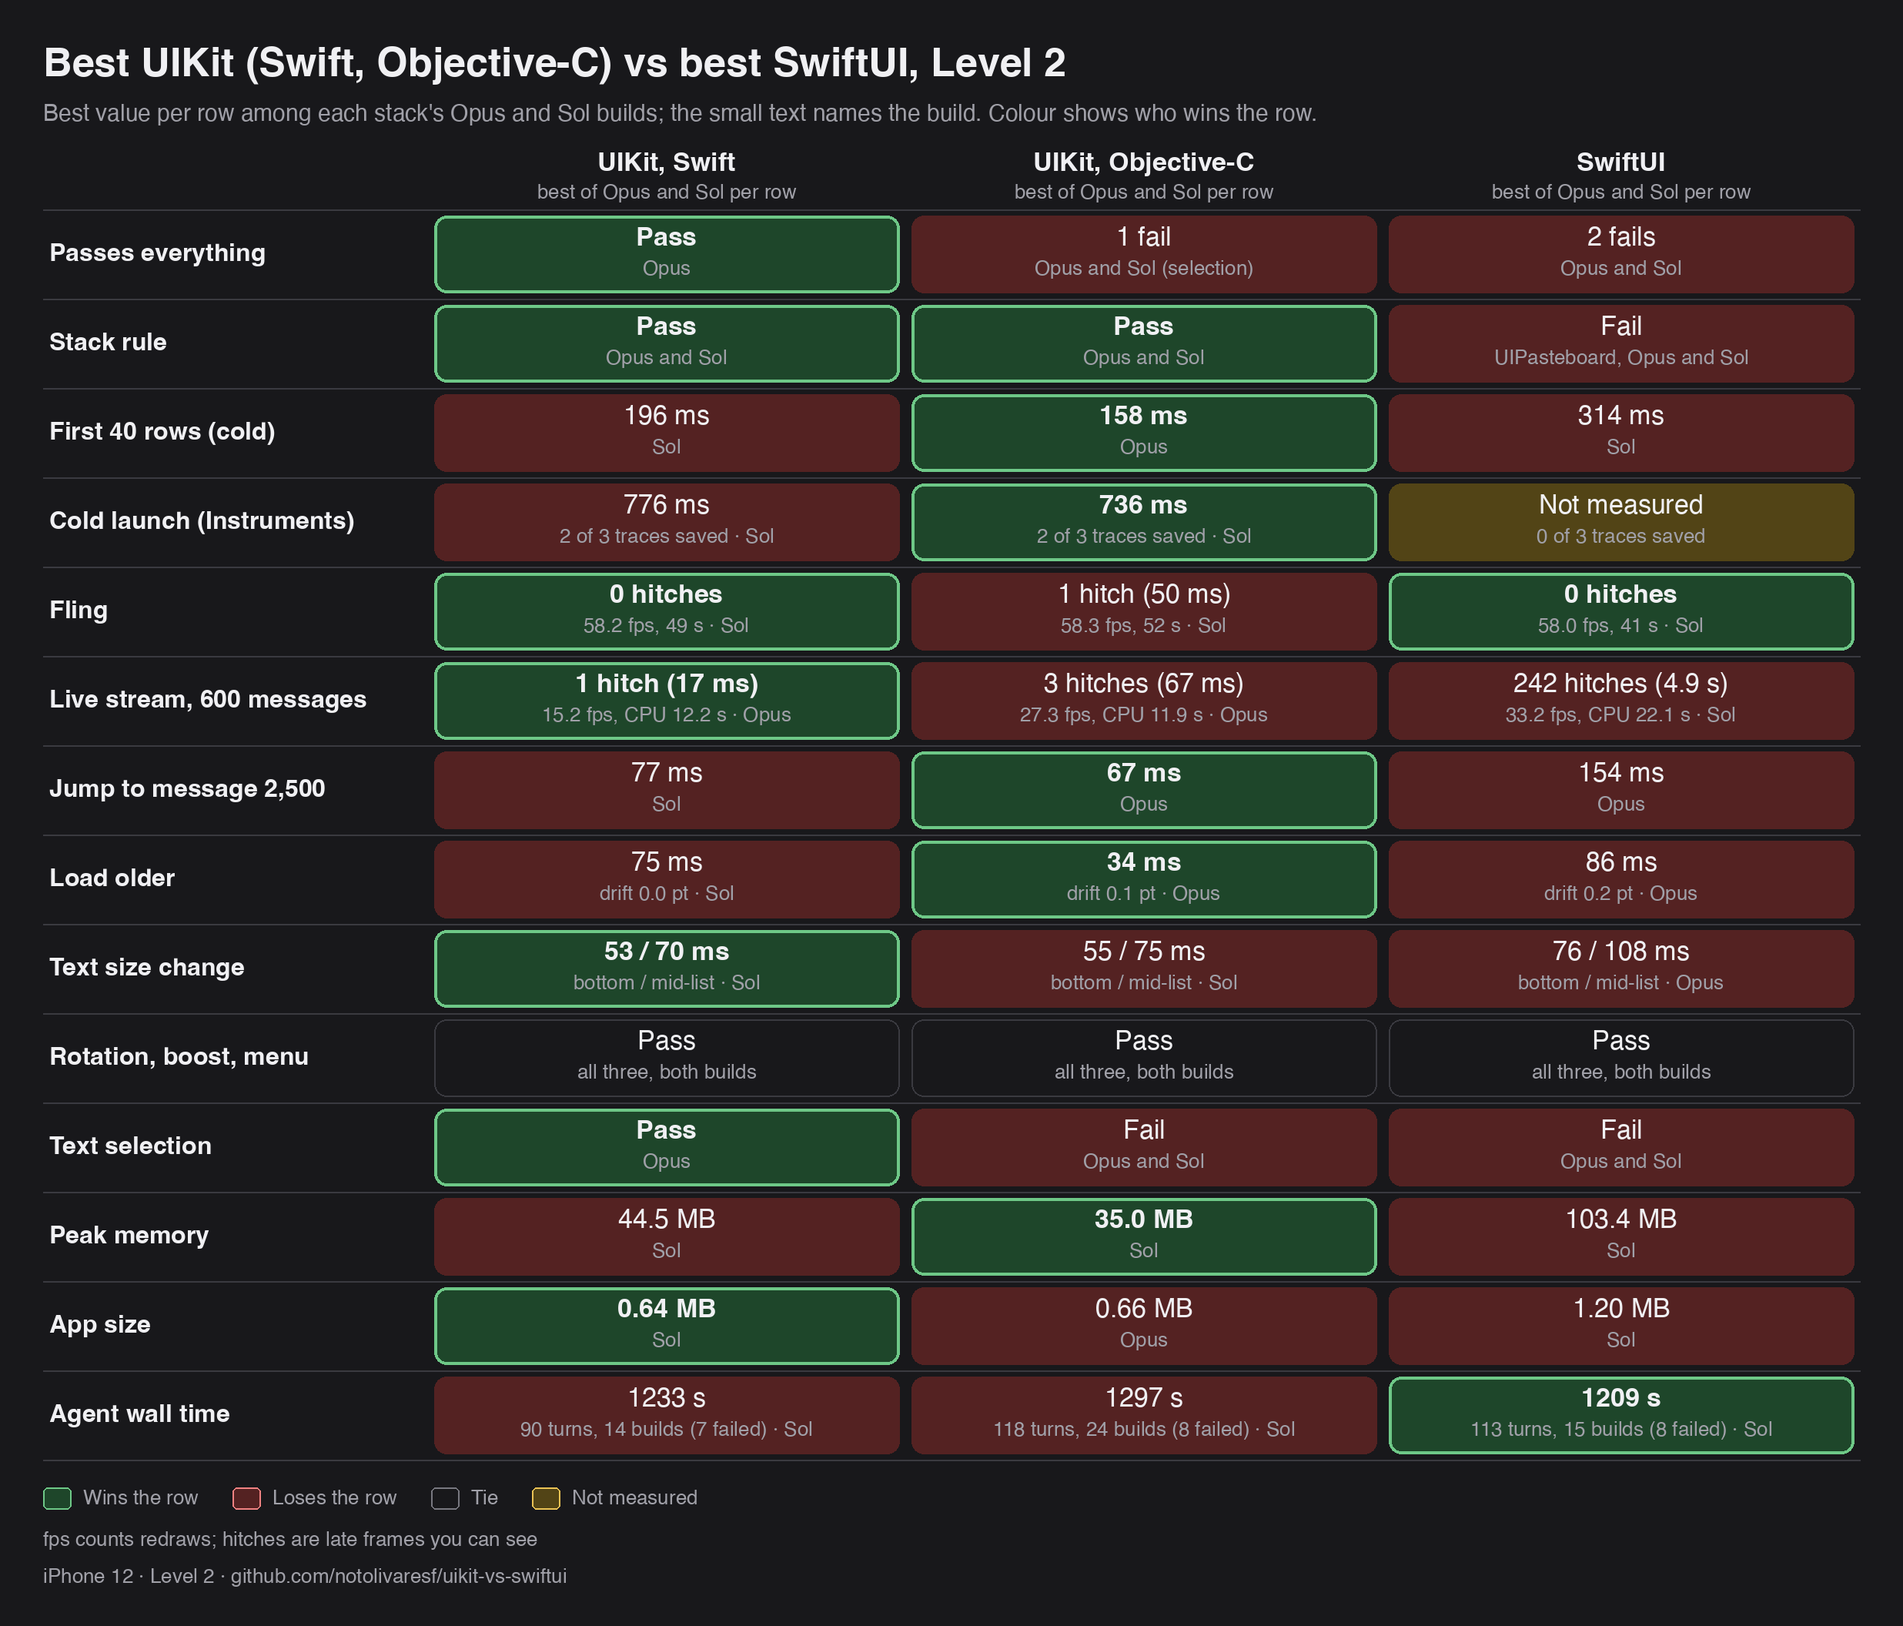
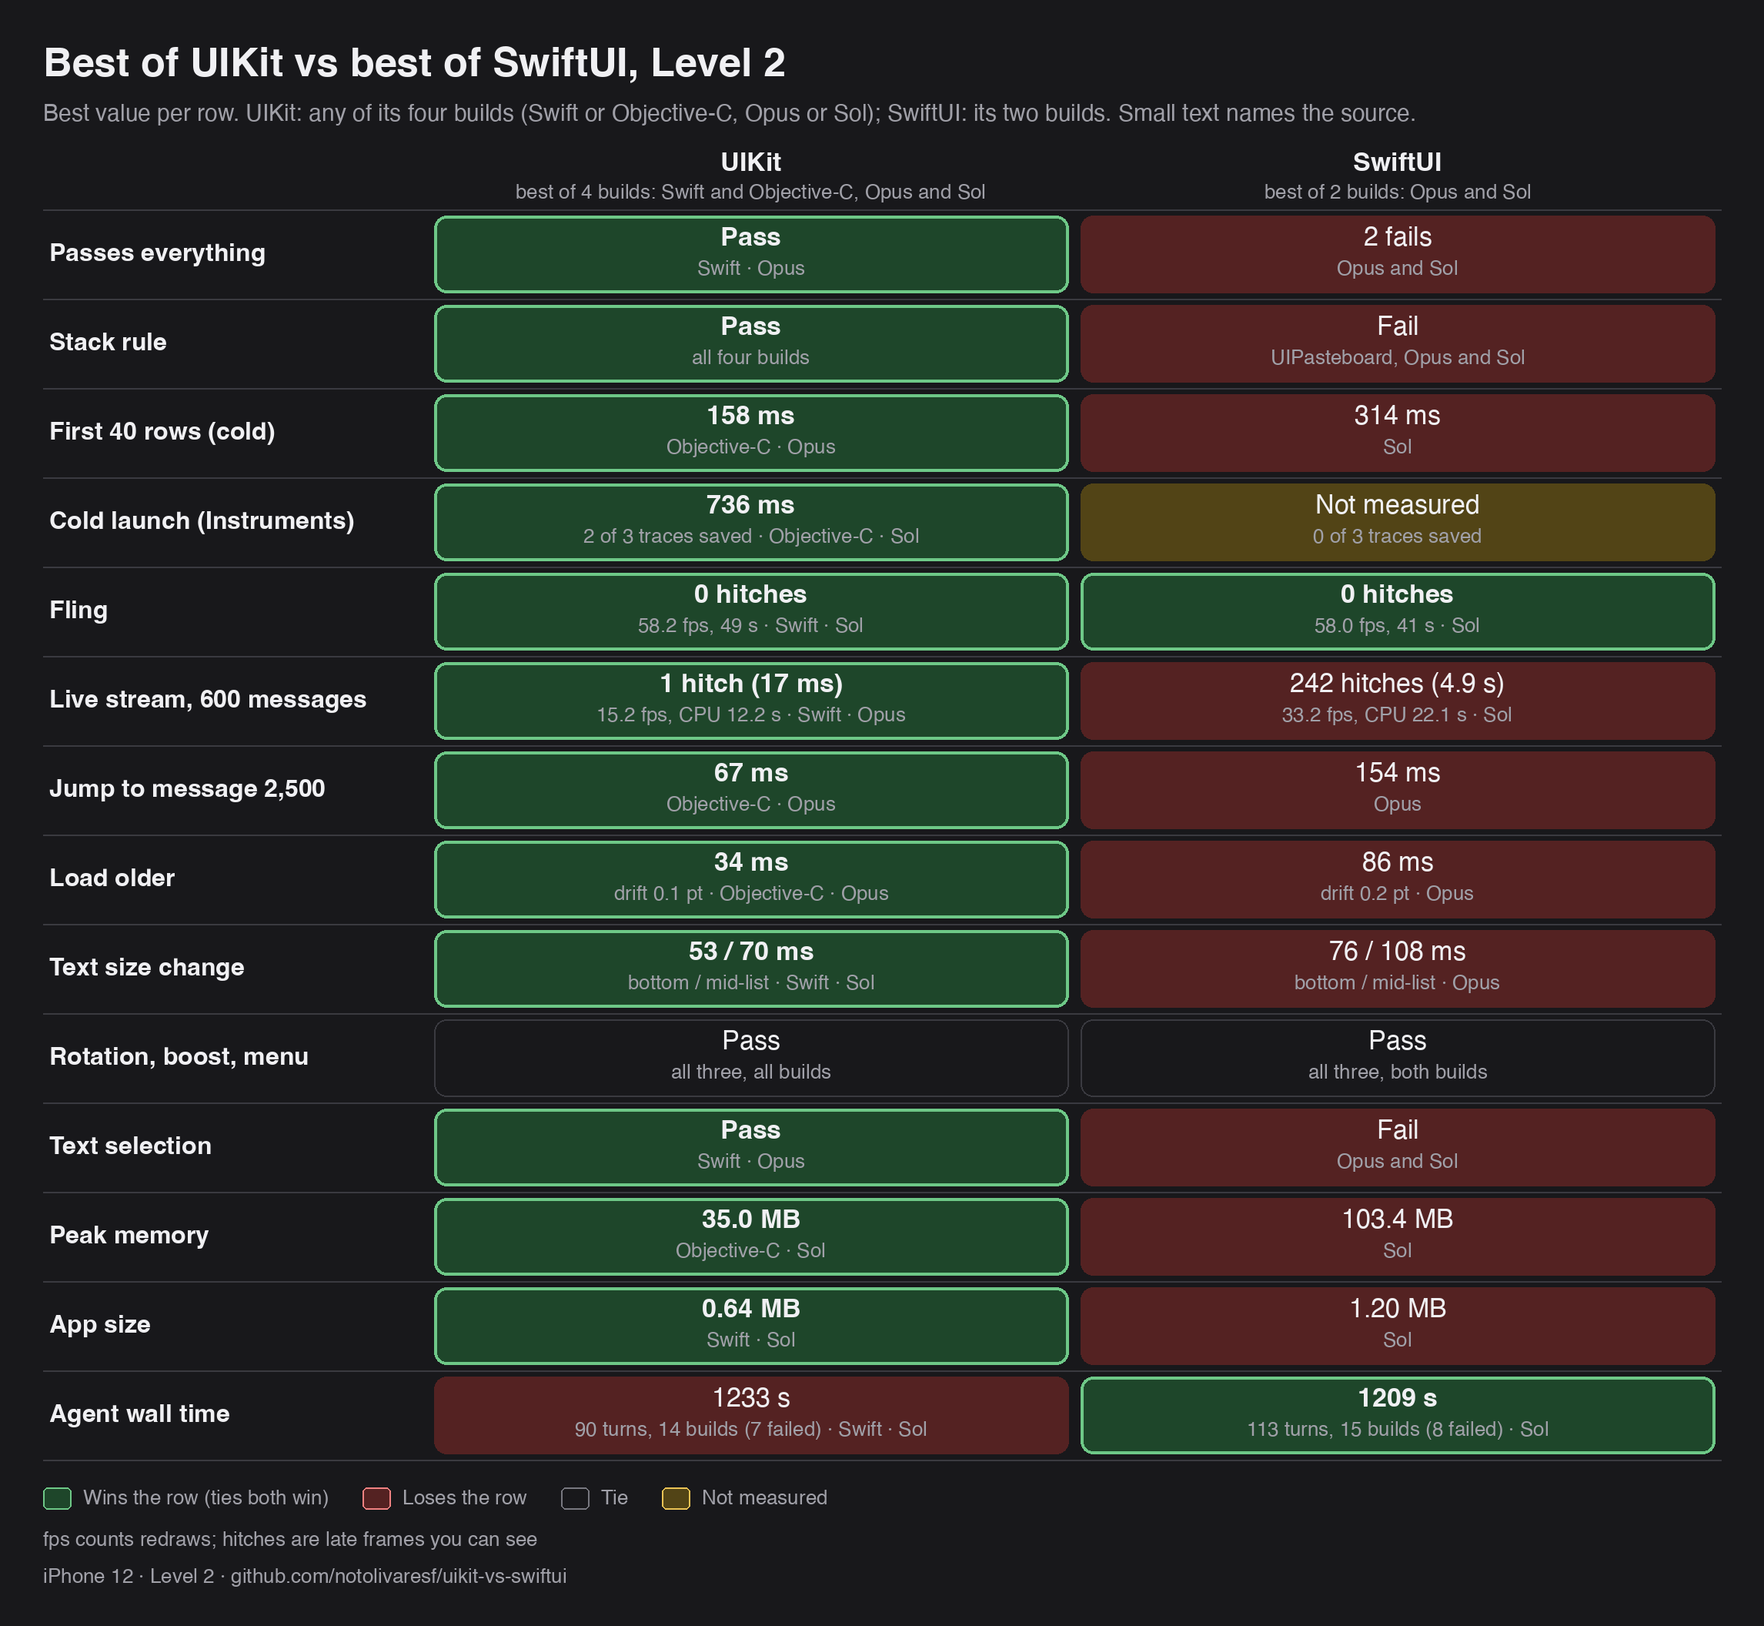
Level 2 best-of: two columns, best of UIKit vs best of SwiftUI, source named per cell

diff --git a/Harness/tools/results_table.py b/Harness/tools/results_table.py
@@ -177,43 +177,45 @@ L2 = dict(title="UIKit vs SwiftUI, Level 2", subtitle="Same Campfire chat room, 
           footer="iPhone 12 · Level 2 · github.com/notolivaresf/uikit-vs-swiftui")
 
 # --- Level 2 best of each stack (docs/results-l2-best.md), rendered only with --l2-best ---
-# Per row, each column (UIKit Swift, UIKit Objective-C, SwiftUI) shows the best value among that stack's two Level 2
-# builds (Opus or Sol; mix and match); the small text names the build. All numbers are from docs/results-l2.md.
-# Result per cell: W win (best of the three, ties allowed), L lose, T tie, N not measured.
+# Two columns. UIKit = best value per row across the four UIKit builds (Opus and Sol, Swift and Objective-C); SwiftUI = best
+# per row of its two builds (mix and match). The small text names the source. All numbers are from docs/results-l2.md.
+# Result per cell: W win (ties both win), L lose, T tie, N not measured.
 _ST = {"W": "ok", "L": "bad", "T": "none", "N": "warn"}
+SW, OC = "Swift \u00b7 ", "Objective-C \u00b7 "
 
 
 def _r(res, main, sub):
     return (_ST[res], main, sub, res == "W")
 
 
+def _row(label, u, w):
+    return (label, [_r(*u), _r(*w)])
+
+
 L2B_ROWS = [
-    ("Passes everything", [_r("W", "Pass", "Opus"), _r("L", "1 fail", "Opus and Sol (selection)"), _r("L", "2 fails", "Opus and Sol")]),
-    ("Stack rule", [_r("W", "Pass", "Opus and Sol"), _r("W", "Pass", "Opus and Sol"), _r("L", "Fail", "UIPasteboard, Opus and Sol")]),
-    ("First 40 rows (cold)", [_r("L", "196 ms", "Sol"), _r("W", "158 ms", "Opus"), _r("L", "314 ms", "Sol")]),
-    ("Cold launch (Instruments)", [_r("L", "776 ms", "2 of 3 traces saved \u00b7 Sol"), _r("W", "736 ms", "2 of 3 traces saved \u00b7 Sol"),
-                                   _r("N", "Not measured", "0 of 3 traces saved")]),
-    ("Fling", [_r("W", "0 hitches", "58.2 fps, 49 s \u00b7 Sol"), _r("L", "1 hitch (50 ms)", "58.3 fps, 52 s \u00b7 Sol"),
-               _r("W", "0 hitches", "58.0 fps, 41 s \u00b7 Sol")]),
-    ("Live stream, 600 messages", [_r("W", "1 hitch (17 ms)", "15.2 fps, CPU 12.2 s \u00b7 Opus"), _r("L", "3 hitches (67 ms)", "27.3 fps, CPU 11.9 s \u00b7 Opus"),
-                                   _r("L", "242 hitches (4.9 s)", "33.2 fps, CPU 22.1 s \u00b7 Sol")]),
-    ("Jump to message 2,500", [_r("L", "77 ms", "Sol"), _r("W", "67 ms", "Opus"), _r("L", "154 ms", "Opus")]),
-    ("Load older", [_r("L", "75 ms", "drift 0.0 pt \u00b7 Sol"), _r("W", "34 ms", "drift 0.1 pt \u00b7 Opus"), _r("L", "86 ms", "drift 0.2 pt \u00b7 Opus")]),
-    ("Text size change", [_r("W", "53 / 70 ms", "bottom / mid-list \u00b7 Sol"), _r("L", "55 / 75 ms", "bottom / mid-list \u00b7 Sol"),
-                          _r("L", "76 / 108 ms", "bottom / mid-list \u00b7 Opus")]),
-    ("Rotation, boost, menu", [_r("T", "Pass", "all three, both builds")] * 3),
-    ("Text selection", [_r("W", "Pass", "Opus"), _r("L", "Fail", "Opus and Sol"), _r("L", "Fail", "Opus and Sol")]),
-    ("Peak memory", [_r("L", "44.5 MB", "Sol"), _r("W", "35.0 MB", "Sol"), _r("L", "103.4 MB", "Sol")]),
-    ("App size", [_r("W", "0.64 MB", "Sol"), _r("L", "0.66 MB", "Opus"), _r("L", "1.20 MB", "Sol")]),
-    ("Agent wall time", [_r("L", "1233 s", "90 turns, 14 builds (7 failed) \u00b7 Sol"), _r("L", "1297 s", "118 turns, 24 builds (8 failed) \u00b7 Sol"),
-                         _r("W", "1209 s", "113 turns, 15 builds (8 failed) \u00b7 Sol")]),
+    _row("Passes everything", ("W", "Pass", SW + "Opus"), ("L", "2 fails", "Opus and Sol")),
+    _row("Stack rule", ("W", "Pass", "all four builds"), ("L", "Fail", "UIPasteboard, Opus and Sol")),
+    _row("First 40 rows (cold)", ("W", "158 ms", OC + "Opus"), ("L", "314 ms", "Sol")),
+    _row("Cold launch (Instruments)", ("W", "736 ms", "2 of 3 traces saved \u00b7 " + OC + "Sol"), ("N", "Not measured", "0 of 3 traces saved")),
+    _row("Fling", ("W", "0 hitches", "58.2 fps, 49 s \u00b7 " + SW + "Sol"), ("W", "0 hitches", "58.0 fps, 41 s \u00b7 Sol")),
+    _row("Live stream, 600 messages", ("W", "1 hitch (17 ms)", "15.2 fps, CPU 12.2 s \u00b7 " + SW + "Opus"),
+         ("L", "242 hitches (4.9 s)", "33.2 fps, CPU 22.1 s \u00b7 Sol")),
+    _row("Jump to message 2,500", ("W", "67 ms", OC + "Opus"), ("L", "154 ms", "Opus")),
+    _row("Load older", ("W", "34 ms", "drift 0.1 pt \u00b7 " + OC + "Opus"), ("L", "86 ms", "drift 0.2 pt \u00b7 Opus")),
+    _row("Text size change", ("W", "53 / 70 ms", "bottom / mid-list \u00b7 " + SW + "Sol"), ("L", "76 / 108 ms", "bottom / mid-list \u00b7 Opus")),
+    _row("Rotation, boost, menu", ("T", "Pass", "all three, all builds"), ("T", "Pass", "all three, both builds")),
+    _row("Text selection", ("W", "Pass", SW + "Opus"), ("L", "Fail", "Opus and Sol")),
+    _row("Peak memory", ("W", "35.0 MB", OC + "Sol"), ("L", "103.4 MB", "Sol")),
+    _row("App size", ("W", "0.64 MB", SW + "Sol"), ("L", "1.20 MB", "Sol")),
+    _row("Agent wall time", ("L", "1233 s", "90 turns, 14 builds (7 failed) \u00b7 " + SW + "Sol"),
+         ("W", "1209 s", "113 turns, 15 builds (8 failed) \u00b7 Sol")),
 ]
-L2B = dict(title="Best UIKit (Swift, Objective-C) vs best SwiftUI, Level 2",
-           subtitle="Best value per row among each stack's Opus and Sol builds; the small text names the build. Colour shows who wins the row.",
-           builds=[("UIKit, Swift", "best of Opus and Sol per row"), ("UIKit, Objective-C", "best of Opus and Sol per row"),
-                   ("SwiftUI", "best of Opus and Sol per row")], rows=L2B_ROWS, col_w=310, file="results-l2-best",
+L2B = dict(title="Best of UIKit vs best of SwiftUI, Level 2",
+           subtitle="Best value per row. UIKit: any of its four builds (Swift or Objective-C, Opus or Sol); SwiftUI: its two builds. Small text names the source.",
+           builds=[("UIKit", "best of 4 builds: Swift and Objective-C, Opus and Sol"), ("SwiftUI", "best of 2 builds: Opus and Sol")],
+           rows=L2B_ROWS, col_w=420, file="results-l2-best",
            groups=None, row_h=58,
-           legend=[("ok", "Wins the row"), ("bad", "Loses the row"), ("none", "Tie"), ("warn", "Not measured")],
+           legend=[("ok", "Wins the row (ties both win)"), ("bad", "Loses the row"), ("none", "Tie"), ("warn", "Not measured")],
            note="fps counts redraws; hitches are late frames you can see",
            footer="iPhone 12 \u00b7 Level 2 \u00b7 github.com/notolivaresf/uikit-vs-swiftui")
 

diff --git a/docs/results-l2-best.md b/docs/results-l2-best.md
@@ -1,43 +1,42 @@
-# Level 2: best Swift UIKit, best Objective-C UIKit and best SwiftUI
+# Level 2: best of UIKit against best of SwiftUI
 
-Fernando asked (20 Oct) for the best UIKit build against the best SwiftUI build of Level 2, UIKit split into Swift and Objective-C, and then: "The best should be the best of each metric regardless if we mix and match." So each column shows, row by row, the best value among that stack's two Level 2 builds (Opus and Sol), and each cell names the build it came from. A column is therefore not one build. Every number is from `docs/results-l2.md` (round 1, iPhone 12).
+Fernando's brief (20 Oct): "The best should be the best of each metric regardless if we mix and match", then "just best of UIKit vs. best of SwiftUI and mark in each row if it's Swift/ObjC". So each column shows, row by row, the best value among that stack's builds, and each cell names where it came from. UIKit is the best of four builds (Swift and Objective-C, each by Opus and by Sol); SwiftUI is the best of two (Opus and Sol). A column is therefore not one build. Every number is from `docs/results-l2.md` (round 1, iPhone 12).
 
-![Best Swift UIKit, Objective-C UIKit and SwiftUI per row, Level 2](images/results-l2-best.png)
+![Best of UIKit vs best of SwiftUI per row, Level 2](images/results-l2-best.png)
 
 (Dark version: `images/results-l2-best-dark.png`; rendered with `python3 Harness/tools/results_table.py --l2-best`.)
 
-How a cell is chosen: lowest time, hitches, memory or size; pass if either build passed. Fling and stream lead with hitches (late frames you can see), fps second: fps counts redraws, so a build that redraws only when a message lands shows fewer frames without stuttering. The winner of a row is the best of the three columns; ties both win.
+How a cell is chosen: lowest time, hitches, memory or size; pass if any build of that stack passed. Fling and stream lead with hitches (late frames you can see), fps second: fps counts redraws, so a build that redraws only when a message lands shows fewer frames without stuttering. The winner of a row is the better of the two columns; ties both win.
 
 ## Head to head (source build in brackets)
 
-| Row | UIKit, Swift | UIKit, Objective-C | SwiftUI | Winner |
-|---|---|---|---|---|
-| Passes everything | pass (Opus) | 1 fail, selection (Opus and Sol) | 2 fails (Opus and Sol) | Swift |
-| Stack rule | pass (Opus and Sol) | pass (Opus and Sol) | fail, UIPasteboard (Opus and Sol) | Swift, Objective-C |
-| First 40 rows, cold | 196 ms (Sol) | 158 ms (Opus) | 314 ms (Sol) | Objective-C |
-| Cold launch (Instruments) | 776 ms, 2 of 3 traces (Sol) | 736 ms, 2 of 3 traces (Sol) | not measured: 0 of 3 traces saved | Objective-C |
-| Fling | 0 hitches, 58.2 fps, 49 s (Sol) | 1 hitch (50 ms), 58.3 fps, 52 s (Sol) | 0 hitches, 58.0 fps, 41 s (Sol) | Swift, SwiftUI |
-| Live stream, 600 messages | 1 hitch (17 ms), 15.2 fps, CPU 12.2 s (Opus) | 3 hitches (67 ms), 27.3 fps, CPU 11.9 s (Opus) | 242 hitches (4.9 s), 33.2 fps, CPU 22.1 s (Sol) | Swift |
-| Jump to message 2500 | 77 ms (Sol) | 67 ms (Opus) | 154 ms (Opus) | Objective-C |
-| Load older | 75 ms, drift 0.0 pt (Sol) | 34 ms, drift 0.1 pt (Opus) | 86 ms, drift 0.2 pt (Opus) | Objective-C |
-| Text size change (bottom / mid-list) | 53 / 70 ms (Sol) | 55 / 75 ms (Sol) | 76 / 108 ms (Opus) | Swift |
-| Rotation, boost burst, context menu | pass (both) | pass (both) | pass (both) | tie |
-| Text selection | pass (Opus) | fail (Opus and Sol) | fail (Opus and Sol) | Swift |
-| Peak memory | 44.5 MB (Sol) | 35.0 MB (Sol) | 103.4 MB (Sol) | Objective-C |
-| App size | 0.64 MB (Sol) | 0.66 MB (Opus) | 1.20 MB (Sol) | Swift |
-| Agent wall time, turns, builds (failed) | 1233 s, 90, 14 (7) (Sol) | 1297 s, 118, 24 (8) (Sol) | 1209 s, 113, 15 (8) (Sol) | SwiftUI |
+| Row | UIKit (best of 4) | SwiftUI (best of 2) | Winner |
+|---|---|---|---|
+| Passes everything | pass (Swift, Opus) | 2 fails (Opus and Sol) | UIKit |
+| Stack rule | pass (all four builds) | fail, UIPasteboard (Opus and Sol) | UIKit |
+| First 40 rows, cold | 158 ms (Objective-C, Opus) | 314 ms (Sol) | UIKit |
+| Cold launch (Instruments) | 736 ms, 2 of 3 traces (Objective-C, Sol) | not measured: 0 of 3 traces saved | UIKit |
+| Fling | 0 hitches, 58.2 fps, 49 s (Swift, Sol) | 0 hitches, 58.0 fps, 41 s (Sol) | tie |
+| Live stream, 600 messages | 1 hitch (17 ms), 15.2 fps, CPU 12.2 s (Swift, Opus) | 242 hitches (4.9 s), 33.2 fps, CPU 22.1 s (Sol) | UIKit |
+| Jump to message 2500 | 67 ms (Objective-C, Opus) | 154 ms (Opus) | UIKit |
+| Load older | 34 ms, drift 0.1 pt (Objective-C, Opus) | 86 ms, drift 0.2 pt (Opus) | UIKit |
+| Text size change (bottom / mid-list) | 53 / 70 ms (Swift, Sol) | 76 / 108 ms (Opus) | UIKit |
+| Rotation, boost burst, context menu | pass (all builds) | pass (both builds) | tie |
+| Text selection | pass (Swift, Opus) | fail (Opus and Sol) | UIKit |
+| Peak memory | 35.0 MB (Objective-C, Sol) | 103.4 MB (Sol) | UIKit |
+| App size | 0.64 MB (Swift, Sol) | 1.20 MB (Sol) | UIKit |
+| Agent wall time, turns, builds (failed) | 1233 s, 90, 14 (7) (Swift, Sol) | 1209 s, 113, 15 (8) (Sol) | SwiftUI |
 
-Cold launch is not comparable to Level 1: only 2 of 3 traces saved for the measured builds, and for SwiftUI none saved before the 300 s cap.
+Cold launch is not comparable to Level 1: only 2 of 3 traces saved for the measured UIKit build, and none for SwiftUI before the 300 s cap.
 
 ## Win counts
 
-Of 14 rows: Swift UIKit wins 7 (passes everything, stack rule shared, fling shared, stream, text size, text selection, app size), Objective-C UIKit wins 6 (stack rule shared, first content, cold launch, jump, load older, peak memory), SwiftUI wins 2 (fling shared, agent time); one row is a tie.
+Of 14 rows: UIKit wins 11 outright and shares fling (12 in all), SwiftUI wins 1 outright (agent time) and shares fling (2 in all), and one row, rotation, boost burst and context menu, is a tie. Of UIKit's 12 winning cells, Swift supplies 6 (passes everything, fling, stream, text size, text selection, app size), Objective-C supplies 5 (first content, cold launch, jump, load older, peak memory), and the stack rule comes from all four builds.
 
 ## Takeaways
 
-- Mixing and matching narrows the field: UIKit in Swift and in Objective-C win 12 of the 14 rows between them (7 and 6, with the stack rule and fling counted for the stack that shares it), SwiftUI wins 2 (fling shared, agent time), one row is a tie.
-- Correctness is still one-sided: only Swift UIKit (the Opus build) passes everything; Objective-C misses text selection in both builds; SwiftUI fails the stack rule (it uses UIKit's UIPasteboard for Copy) and selection in both.
-- The stream is the biggest gap: 242 hitches and 22.1 s of CPU for SwiftUI against 1 to 3 hitches and about 12 s for both UIKit stacks. Its higher fps (33.2) is redraws, not smoothness.
-- Fling is a draw at the top: Swift UIKit and SwiftUI both get 0 hitches (different Sol builds), and Objective-C's best has 1; fps is 58.0 to 58.3 everywhere.
-- Objective-C UIKit is quickest and leanest: first content 158 ms, load older 34 ms, 35.0 MB against 44.5 MB (Swift) and 103.4 MB (SwiftUI). Swift UIKit wins text size (53 against 55 ms, close) and app size (0.64 against 0.66 MB, close).
-- Agent cost is nearly level when the best build is taken (1209 to 1297 s, all Sol), with SwiftUI first by 24 s, but it took 8 failed builds against 7 for Swift and 8 for Objective-C, so there is no clear saving.
+- UIKit wins 11 of 14 rows outright and ties fling; SwiftUI wins only agent time (1209 against 1233 s, a 24 s gap).
+- Neither language sweeps UIKit's side: Swift gives the cleanest correctness and smoothness (the only build that passes everything and selects text, 1 stream hitch, 0 fling hitches), Objective-C gives the quickest and leanest (first content 158 ms, jump 67 ms, load older 34 ms, 35.0 MB).
+- The stream is the biggest gap: 242 hitches and 22.1 s of CPU for SwiftUI against 1 hitch and 12.2 s for the best UIKit. SwiftUI's higher fps (33.2) is redraws, not smoothness.
+- SwiftUI is level on fling (0 hitches both) and loses everywhere else except agent time, and even its best build fails the stack rule (it uses UIKit's UIPasteboard for Copy) and text selection.
+- SwiftUI's agent-time win is thin: 1209 s took 113 turns and 8 failed builds, against 90 turns and 7 failed for UIKit's 1233 s.

diff --git a/README.md b/README.md
@@ -3,11 +3,11 @@ Started after 37signals moved <a href="https://once.com">ONCE</a> off Rails.</p>
 
 ## Level 2: with skills
 
-The same Campfire chat room, built six times with a skill installed: Apple's Xcode 27 skills for SwiftUI, and [our UIKit skills](https://github.com/notolivaresf/uikit-skill) for Swift and for Objective-C, each by Opus and by Sol. Best build of each stack, head to head:
+The same Campfire chat room, built six times with a skill installed: Apple's Xcode 27 skills for SwiftUI, and [our UIKit skills](https://github.com/notolivaresf/uikit-skill) for Swift and for Objective-C, each by Opus and by Sol. Best of UIKit against best of SwiftUI, row by row:
 
 <picture>
   <source media="(prefers-color-scheme: dark)" srcset="docs/images/results-l2-best-dark.png">
-  <img src="docs/images/results-l2-best.png" alt="Level 2: best Swift UIKit build, best Objective-C UIKit build and best SwiftUI build compared row by row. Colour shows the winner of each row; only the Swift UIKit build passes everything.">
+  <img src="docs/images/results-l2-best.png" alt="Level 2: best of UIKit (Swift or Objective-C, Opus or Sol) against best of SwiftUI, row by row, each cell naming its source build. Colour shows the winner of each row; UIKit wins 11 rows, SwiftUI 1, fling and one more row are ties.">
 </picture>
 
 Details: [`docs/results-l2-best.md`](docs/results-l2-best.md) (the picks and takeaways) and [`docs/results-l2.md`](docs/results-l2.md) (all six builds). All six builds:
